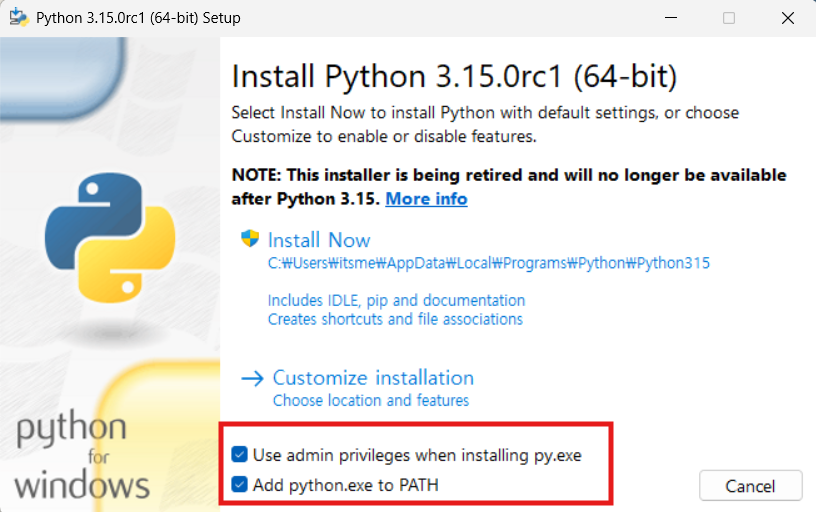
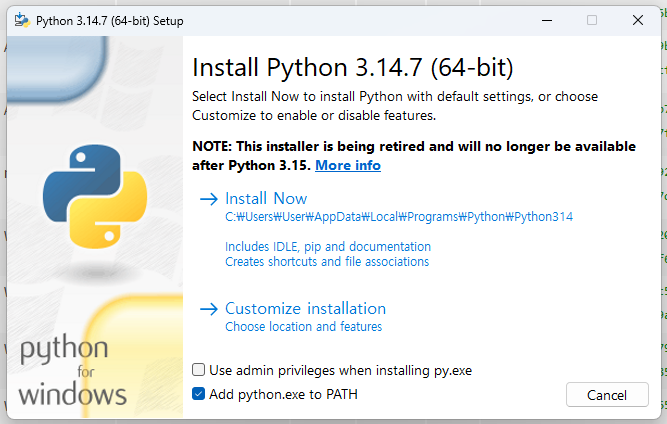
chore: python install이미지 변경

diff --git a/advanced2/stage2.html b/advanced2/stage2.html
@@ -113,8 +113,7 @@
 <p>실습 7 마무리에서 본 스킬 공유를 떠올려 보세요. 받은 zip을 풀어 <code>.claude/skills/</code> 폴더에 넣는 것이 전부였습니다. 남의 스킬을 가져올 때도 똑같습니다. 방법은 두 가지인데 결과는 같습니다.</p>
 <p><strong>방법 1 · 명령어 한 줄 (인터넷이 되는 경우)</strong></p>
 <p>VS Code 위 메뉴 <code>터미널 &gt; 새 터미널</code>로 연 창(Claude Code 대화창이 아닙니다)에 아래를 입력합니다.</p>
-<div class="highlight"><pre><span></span><code>npx<span class="w"> </span>skills<span class="w"> </span>add<span class="w"> </span>https://github.com/Leonxlnx/taste-skill<span class="w"> </span>--skill<span class="w"> </span><span class="s2">&quot;design-taste-frontend&quot;</span>
-</code></pre></div>
+<pre class="highlight"><code class="language-bash">npx skills add https://github.com/Leonxlnx/taste-skill --skill "design-taste-frontend"</code></pre>
 <p>실행 중에 어떤 도구에 설치할지 물으면 <strong>Claude Code</strong>를, 범위를 물으면 <strong>현재 프로젝트</strong>를 고르세요. 끝나면 설치된 경로가 출력됩니다. </p>
 <div class="admonition example">
 <p class="admonition-title">이렇게 나오면 됩니다</p>
@@ -125,12 +124,11 @@
 </div>
 <p><strong>방법 2 · 파일 복사 (실습 7에서 zip을 받았을 때와 같은 방식)</strong></p>
 <p>GitHub 저장소의 <code>skills/taste-skill/SKILL.md</code> 파일을 열어 <strong>Raw</strong> 버튼을 누르면 브라우저에 글 내용이 열립니다. 전체 선택(Ctrl+A)·복사해서, 지금 VS Code로 열어 둔 <code>전체자료</code> 폴더에 아래 구조로 새 파일을 만들어 붙여 넣고 저장합니다. 실습 7에서 배운 대로, <strong>폴더 이름이 곧 스킬 이름</strong>이 됩니다. (저장소 쪽 폴더명이 taste-skill이어도 괜찮습니다 — 폴더 구조만 아래처럼 만들면 됩니다.)</p>
-<div class="highlight"><pre><span></span><code>전체자료/           ← 지금 VS Code로 열어 둔 폴더
+<pre class="highlight"><code>전체자료/           ← 지금 VS Code로 열어 둔 폴더
 └─ .claude/
     └─ skills/
         └─ design-taste-frontend/
-            └─ SKILL.md
-</code></pre></div>
+            └─ SKILL.md</code></pre>
 <p>실습 7에서 만든 데이터통합 스킬이 있는 바로 그 <code>.claude/skills/</code> 폴더입니다.</p>
 <div class="admonition success">
 <p class="admonition-title">설치가 됐는지 확인</p>
@@ -139,8 +137,7 @@
 <div class="admonition info">
 <p class="admonition-title">실습 7과 부르는 방식이 다릅니다</p>
 <p>실습 7에서는 "데이터통합 스킬로 합쳐줘"처럼 문장 안에서 <strong>이름을 불러</strong> 썼습니다. 이번에는 프롬프트 맨 앞에 <strong>슬래시 커맨드</strong> 한 줄을 붙여 스킬을 직접 켭니다.</p>
-<div class="highlight"><pre><span></span><code>/design-taste-frontend
-</code></pre></div>
+<pre class="highlight"><code>/design-taste-frontend</code></pre>
 <p><figure style="margin:0">
   <img src="../images/advanced2/stage2-slash-menu.png" alt="Claude Code 입력창에 /를 입력하자 설치된 스킬 목록 패널이 떠 있고, 그 안에 design-taste-frontend가 보이는 화면" style="width:100%;height:auto;display:block">
   <figcaption style="text-align:center;font-size:0.85em;color:#888;margin-top:6px">입력창에 /를 치면 뜨는 스킬 목록 — 여기에 design-taste-frontend가 보이면 설치 성공입니다</figcaption>
@@ -158,7 +155,7 @@
 <h2 id="같은-프롬프트로-다시-시키기">같은 프롬프트로 다시 시키기<a class="headerlink" href="#같은-프롬프트로-다시-시키기" title="Permanent link">&para;</a></h2>
 <p><strong>반드시 새 대화를 시작한 뒤</strong> 보내세요. 스킬 목록은 대화를 시작할 때 읽히기 때문에, 1단계 대화에 이어서 보내면 새로 설치한 스킬이 반영되지 않을 수 있습니다.</p>
 <p>1단계 프롬프트를 그대로 복사해 보내되, <strong>맨 앞에 <code>/design-taste-frontend</code> 한 줄을 붙이고</strong>, 저장 위치만 <code>lab8_advanced/2.비교용/after/</code>로 바꿉니다. 본문에서 바뀌는 건 그 두 가지뿐입니다.</p>
-<div class="highlight"><pre><span></span><code>/design-taste-frontend lab8_advanced 폴더의 2.제품사양서.xlsx를 참고해서, 우리 회사(한울로보틱스)의
+<pre class="highlight"><code>/design-taste-frontend lab8_advanced 폴더의 2.제품사양서.xlsx를 참고해서, 우리 회사(한울로보틱스)의
 산업용 협동로봇 제품 소개 페이지를 만들어줘.
 고객사 담당자에게 링크로 보낼 페이지야. 요즘 스타일로 세련되게, 테크 기업 느낌으로.
 
@@ -169,8 +166,7 @@
 만드는 방법:
 - lab8_advanced/2.비교용/after/ 폴더에 HTML 파일 하나로. CSS와 JS를 그 파일 안에 넣어서,
   설치나 빌드 없이 더블클릭하면 바로 열리게.
-- 데스크톱 1440px 기준으로 만들고, 모바일에서도 안 깨지게.
-</code></pre></div>
+- 데스크톱 1440px 기준으로 만들고, 모바일에서도 안 깨지게.</code></pre>
 <div class="admonition info">
 <p class="admonition-title">결과보다 먼저 눈여겨볼 것</p>
 <p>스킬이 제대로 걸렸다면, 페이지를 만들기 전에 AI가 <strong>무엇을 만들지 먼저 선언합니다.</strong> 이 페이지를 어떤 성격의 페이지로 읽었는지 말하고, 다이얼 세 개의 값을 정하고 시작합니다.</p>
@@ -208,8 +204,7 @@
 <p>진짜 주소(링크)가 필요해지면 그때 이 파일을 회사 서버나 웹 호스팅 서비스에 올리면 됩니다. 파일은 이미 완성돼 있으니, 올리는 방법 역시 AI에게 시키면 되는 다음 업무일 뿐입니다.</p>
 <h2 id="더-해보기--대화로-조율하기">더 해보기 · 대화로 조율하기<a class="headerlink" href="#더-해보기--대화로-조율하기" title="Permanent link">&para;</a></h2>
 <p>시간이 남으면 After 대화에 이어서 이렇게 보내 보세요. 아까 구경한 다이얼 두 개를 직접 움직여 보는 것입니다.</p>
-<div class="highlight"><pre><span></span><code>DESIGN_VARIANCE를 9로, MOTION_INTENSITY를 8로 올려서 다시 만들어줘.
-</code></pre></div>
+<pre class="highlight"><code>DESIGN_VARIANCE를 9로, MOTION_INTENSITY를 8로 올려서 다시 만들어줘.</code></pre>
 <p>파일을 한 줄도 안 고치고 대화만으로 같은 스킬의 톤이 확 바뀝니다. 남의 스킬도 <strong>가져온 다음 내 취향으로 조율</strong>할 수 있다는 뜻입니다.</p>
 <h2 id="체크포인트">체크포인트<a class="headerlink" href="#체크포인트" title="Permanent link">&para;</a></h2>
 <ul class="task-list">

diff --git a/lab7/step1.html b/lab7/step1.html
@@ -129,21 +129,19 @@
 </ul>
 <details class="example">
 <summary>이렇게 시킬 수 있습니다</summary>
-<div class="highlight"><pre><span></span><code>이 @lab7/1.주문통합/주문통합_작업지침.md 는 지금 특정 파일명과 특정 열 이름에 맞춰져 있어. 이걸 어떤 파일이 와도 쓸 수 있도록 범용 절차로 다시 써줘.
-- 파일명을 고정하지 말고 &#39;폴더 안의 표 파일을 전부 찾는다&#39;로, 열 이름도 고정하지 말고 &#39;각 열이 주문번호인지·고객명인지·금액인지 내용을 보고 표준 칸에 맞춘다&#39;로 바꿔줘.
+<pre class="highlight"><code>이 @lab7/1.주문통합/주문통합_작업지침.md 는 지금 특정 파일명과 특정 열 이름에 맞춰져 있어. 이걸 어떤 파일이 와도 쓸 수 있도록 범용 절차로 다시 써줘.
+- 파일명을 고정하지 말고 '폴더 안의 표 파일을 전부 찾는다'로, 열 이름도 고정하지 말고 '각 열이 주문번호인지·고객명인지·금액인지 내용을 보고 표준 칸에 맞춘다'로 바꿔줘.
 - 표준 7칸(주문번호·고객명·상품명·수량·금액_원·주문일·출처채널), 날짜 `YYYY-MM-DD`, 금액 콤마 제거, 빈칸은 비워두기, 행 수 검산 — 이 규칙은 그대로 유지해.
 - 중복 제거는 주문번호 같은 고유키가 있을 때만 하고, 없으면 모든 행을 남기도록 조건을 달아줘.
-- 열 이름이 애매해서 어느 칸에 넣을지 모르겠으면 지어내지 말고 나한테 물어봐.
-</code></pre></div>
+- 열 이름이 애매해서 어느 칸에 넣을지 모르겠으면 지어내지 말고 나한테 물어봐.</code></pre>
 </details>
 <p>고쳐진 지침을 열어 보면 아까보다 단계가 나뉘고 훨씬 세세해졌을 겁니다. 마지막에 "모르면 물어보고 실행"이라는 규칙이 붙은 것도 확인해 보세요.</p>
 <h2 id="②-고친-지침으로-실제-통합해-보기">② 고친 지침으로 실제 통합해 보기<a class="headerlink" href="#②-고친-지침으로-실제-통합해-보기" title="Permanent link">&para;</a></h2>
 <p>지침이 세세해졌으니 이제 시키는 말은 짧아도 됩니다. 규칙을 다시 설명하지 않고 지침만 가리킵니다.</p>
 <details class="example">
 <summary>이렇게 시킬 수 있습니다</summary>
-<div class="highlight"><pre><span></span><code>방금 고친 lab7/1.주문통합/주문통합_작업지침.md 를 따라서 1.주문통합 폴더의 주문 파일들을 하나로 합쳐줘.
-결과는 같은 폴더에 주문통합_결과.xlsx 로 저장하고, 행 수 검산표를 같이 보여줘.
-</code></pre></div>
+<pre class="highlight"><code>방금 고친 lab7/1.주문통합/주문통합_작업지침.md 를 따라서 1.주문통합 폴더의 주문 파일들을 하나로 합쳐줘.
+결과는 같은 폴더에 주문통합_결과.xlsx 로 저장하고, 행 수 검산표를 같이 보여줘.</code></pre>
 </details>
 <p><code>주문통합_결과.xlsx</code>가 새로 만들어지고, 행 수 검산(3파일 합 − 중복 제거 = 통합 행 수)이 맞으면 범용화 성공입니다. 완성 예시는 예시답안 폴더의 <code>lab7/주문통합_결과.xlsx</code>와 비교해 볼 수 있습니다.</p>
 <h2 id="③-이-절차를-스킬로-굳히기">③ 이 절차를 스킬로 굳히기<a class="headerlink" href="#③-이-절차를-스킬로-굳히기" title="Permanent link">&para;</a></h2>
@@ -160,9 +158,8 @@
 </div>
 <details class="example">
 <summary>이렇게 시킬 수 있습니다</summary>
-<div class="highlight"><pre><span></span><code>/skill-creator:skill-creator  방금 검증한 범용 통합 절차를 데이터통합이라는 이름의 스킬로 만들어줘.
-현재 폴더의 .claude 폴더 하위에 저장해줘.
-</code></pre></div>
+<pre class="highlight"><code>/skill-creator:skill-creator  방금 검증한 범용 통합 절차를 데이터통합이라는 이름의 스킬로 만들어줘.
+현재 폴더의 .claude 폴더 하위에 저장해줘.</code></pre>
 </details>
 <p>잠시 기다리면 <code>.claude</code>라는 폴더가 생기고, 그 안 <code>skills/데이터통합/SKILL.md</code>에 지금까지 이야기한 규칙이 전부 담겨 있을 겁니다. 이제 채팅창에서 이름만 부르면 자동으로 불러와지는 도구가 된 것입니다. 절차가 머릿속이 아니라 파일로 남는 순간입니다.</p>
 <p><code>3.스킬예시/SKILL.md</code>가 이렇게 만들어진 스킬의 완성 예시입니다. 내 스킬과 비교해 보세요.</p>

diff --git a/start/setup/agent.html b/start/setup/agent.html
@@ -125,12 +125,10 @@
 <h2 id="1-claude-code-cli-설치">1. Claude Code CLI 설치<a class="headerlink" href="#1-claude-code-cli-설치" title="Permanent link">&para;</a></h2>
 <p><strong>1.</strong> 검색 창에 <code>PowerShell</code>을 입력해 실행합니다.</p>
 <p><strong>2.</strong> 아래 명령을 붙여넣고 <kbd>Enter</kbd>. (<a href="nodejs.html">③ Node.js 설치</a>가 끝나 있어야 합니다)</p>
-<div class="highlight"><pre><span></span><code><span class="n">npm</span> <span class="n">install</span> <span class="n">-g</span> <span class="nv">@anthropic</span><span class="n">-ai</span><span class="p">/</span><span class="n">claude-code</span>
-</code></pre></div>
+<pre class="highlight"><code class="language-powershell">npm install -g @anthropic-ai/claude-code</code></pre>
 <p>진행 표시가 지나가고 1~2분 안에 끝납니다.</p>
 <p><strong>3.</strong> 설치가 끝나면 PowerShell 창을 <strong>닫았다가 다시 열고</strong>, 아래 명령을 입력합니다.</p>
-<div class="highlight"><pre><span></span><code><span class="n">claude</span>
-</code></pre></div>
+<pre class="highlight"><code class="language-powershell">claude</code></pre>
 <p><img alt=".claude 초기 세팅 화면" src="../../images/setup/claude_initial_setting.png" /></p>
 <p>위와 같은 화면이 나오면 설치 완료입니다. 설치가 확인되었다면 우선 아무것도 설정하지 말고, 다음 단계로 넘어갑니다. </p>
 <h2 id="2-설정-파일settingsjson-넣기">2. 설정 파일(settings.json) 넣기<a class="headerlink" href="#2-설정-파일settingsjson-넣기" title="Permanent link">&para;</a></h2>
@@ -142,8 +140,7 @@
 </div>
 <p><strong>1.</strong> 위 링크에서 받은 압축 파일을 열어(비밀번호 입력) <code>settings.json</code>을 꺼내 <strong>다운로드 폴더</strong>에 둡니다.</p>
 <p><strong>2.</strong> <strong>파일 탐색기</strong>를 열고(작업 표시줄의 노란 폴더 아이콘), 위쪽 <strong>주소창</strong>을 클릭한 뒤 아래를 그대로 입력하고 <kbd>Enter</kbd>. <code>.claude</code> 폴더가 열립니다.</p>
-<div class="highlight"><pre><span></span><code>%USERPROFILE%\.claude
-</code></pre></div>
+<pre class="highlight"><code>%USERPROFILE%\.claude</code></pre>
 <p><img alt="탐색기 주소창에 %USERPROFILE%.claude 입력" src="../../images/setup/settings_addressbar.png" /></p>
 <p><strong>3.</strong> 다운로드 폴더에 있는 <code>settings.json</code>을 이 폴더로 <strong>마우스로 끌어다 놓습니다.</strong> (창 두 개를 나란히 띄우면 편합니다) 폴더에 이미 <code>settings.json</code>이 있다는 안내가 뜨면 <strong>"덮어쓰기(파일 바꾸기)"</strong>를 선택하면 됩니다.</p>
 <p><img alt=".claude 폴더 안에 settings.json이 들어 있는 화면" src="../../images/setup/settings_in_claude_folder.png" /></p>
@@ -164,8 +161,7 @@
 <h2 id="4-vs-code-확장-설치">4. VS Code 확장 설치<a class="headerlink" href="#4-vs-code-확장-설치" title="Permanent link">&para;</a></h2>
 <p>터미널 연결이 확인됐으니 이제 친숙한 채팅 화면으로 쓸 수 있게 VS Code 확장을 설치합니다.</p>
 <p><strong>1.</strong> 아래 링크에서 Claude Code 확장 페이지를 엽니다.</p>
-<div class="highlight"><pre><span></span><code>https://marketplace.visualstudio.com/items?itemName=Anthropic.claude-code
-</code></pre></div>
+<pre class="highlight"><code>https://marketplace.visualstudio.com/items?itemName=Anthropic.claude-code</code></pre>
 <p><strong>2.</strong> 열린 페이지에서 <strong><code>VS Code용 설치</code></strong> 버튼을 누릅니다.</p>
 <p><img alt="마켓플레이스에서 VS Code용 설치 버튼 클릭" src="../../images/setup/claude_install_vscode.png" /></p>
 <p><strong>3.</strong> VS Code가 열리며 확장 페이지가 뜹니다. <strong><code>Install</code></strong> 버튼을 눌러 설치합니다.</p>

diff --git a/start/setup/nodejs.html b/start/setup/nodejs.html
@@ -123,8 +123,7 @@
 <p>Windows에서 가장 간단한 방법은 공식 설치 프로그램을 쓰는 것입니다.</p>
 <h3 id="1-설치-프로그램-다운로드">1. 설치 프로그램 다운로드<a class="headerlink" href="#1-설치-프로그램-다운로드" title="Permanent link">&para;</a></h3>
 <p>Node.js 공식 사이트에 접속합니다.</p>
-<div class="highlight"><pre><span></span><code>https://nodejs.org
-</code></pre></div>
+<pre class="highlight"><code>https://nodejs.org</code></pre>
 <p>페이지 하단의 <strong>Windows 설치 프로그램(.msi)</strong> 버튼을 눌러 받습니다.</p>
 <p><img alt="nodejs.org 다운로드 화면 — Windows 설치 프로그램(.msi) 버튼" src="../../images/setup/nodejs_download.png" /></p>
 <h3 id="2-설치-진행">2. 설치 진행<a class="headerlink" href="#2-설치-진행" title="Permanent link">&para;</a></h3>
@@ -148,15 +147,13 @@
 <p><a href="https://nodejs.org/ko/download/">Node.js 공식 사이트</a>에서 <strong>macOS Installer(.pkg)</strong>를 받아 실행하고, 안내대로 설치합니다. (<code>Add to PATH</code>에 해당하는 설정은 자동으로 처리됩니다.)</p>
 <h2 id="설치-확인">설치 확인<a class="headerlink" href="#설치-확인" title="Permanent link">&para;</a></h2>
 <p>설치가 끝나면 <strong>새 명령 프롬프트(또는 터미널) 창</strong>을 엽니다. 기존에 열려 있던 창은 PATH가 업데이트되지 않았을 수 있습니다.</p>
-<div class="highlight"><pre><span></span><code>node<span class="w"> </span>--version
-</code></pre></div>
+<pre class="highlight"><code class="language-bash">node --version</code></pre>
 <div class="admonition success">
 <p class="admonition-title">이렇게 나오면 정상입니다</p>
 <p><code>v20.x.x</code> 형태의 버전이 출력됩니다.</p>
 </div>
 <p>npm도 함께 설치됐는지 확인합니다.</p>
-<div class="highlight"><pre><span></span><code>npm<span class="w"> </span>--version
-</code></pre></div>
+<pre class="highlight"><code class="language-bash">npm --version</code></pre>
 <p>버전 번호가 출력되면 npm도 정상 설치된 것입니다.</p>
 <div class="admonition warning">
 <p class="admonition-title"><code>Installation complete!</code>가 떴는데 버전이 안 나온다면</p>
@@ -167,8 +164,7 @@
 <p>명령 프롬프트 창에서 아래와 같은 오류가 뜰 수 있습니다.</p>
 <p><img alt="PowerShell에서 npm 실행 시 뜨는 PSSecurityException 오류" src="../../images/setup/pssecurity_exception.png" /></p>
 <p>검색 창에 <code>PowerShell</code>을 입력해 <strong>관리자 권한으로 실행</strong>한 뒤, 아래 명령을 입력하고 확인 창이 뜨면 <code>Y</code>를 누르세요.</p>
-<div class="highlight"><pre><span></span><code><span class="nb">Set-ExecutionPolicy</span> <span class="n">RemoteSigned</span> <span class="n">-Scope</span> <span class="n">CurrentUser</span>
-</code></pre></div>
+<pre class="highlight"><code class="language-powershell">Set-ExecutionPolicy RemoteSigned -Scope CurrentUser</code></pre>
 <p>이후 <strong>새 터미널 창</strong>을 열어 <code>npm --version</code>을 다시 실행해보세요.</p>
 </div>
 

diff --git a/help/next.html b/help/next.html
@@ -133,11 +133,10 @@
 </div>
 <h3 id="4-매번-설명하기-귀찮아지면-규칙-파일을-만들기">4. 매번 설명하기 귀찮아지면 규칙 파일을 만들기<a class="headerlink" href="#4-매번-설명하기-귀찮아지면-규칙-파일을-만들기" title="Permanent link">&para;</a></h3>
 <p>같은 폴더에서 계속 일하다 보면 매번 같은 설명을 반복하게 됩니다. 그럴 때 <code>CLAUDE.md</code>라는 파일을 폴더에 만들어(VS Code에서 새 파일을 만들고 이름을 <code>CLAUDE.md</code>로 저장하면 됩니다) 규칙을 적어두면, 매번 안 알려줘도 됩니다.</p>
-<div class="highlight"><pre><span></span><code>이 폴더에서 일할 때 규칙:
+<pre class="highlight"><code>이 폴더에서 일할 때 규칙:
 - 원본 파일은 고치지 말고 결과는 새 파일로 만든다
 - 날짜는 2026-09-30 형태로 통일한다
-- 모르는 값은 지어내지 말고 확인필요라고 적는다
-</code></pre></div>
+- 모르는 값은 지어내지 말고 확인필요라고 적는다</code></pre>
 <h3 id="5-자동-승인을-되돌려두기">5. 자동 승인을 되돌려두기<a class="headerlink" href="#5-자동-승인을-되돌려두기" title="Permanent link">&para;</a></h3>
 <p>오늘 켜둔 자동 승인은 실습용입니다. 평소 작업 폴더에서는 되돌려 쓰시길 권합니다. 방법은 <a href="../start/setup/agent.html">④ Claude Code 설치</a>의 접이식 안내에 있습니다.</p>
 <hr />
@@ -249,12 +248,11 @@
 <p><strong>표의 마지막 열, 확인하고 수정하기를 빼면 나머지 여섯은 믿을 수가 없습니다.</strong></p>
 <hr />
 <h2 id="오늘-한-행동-다섯-줄">오늘 한 행동 다섯 줄<a class="headerlink" href="#오늘-한-행동-다섯-줄" title="Permanent link">&para;</a></h2>
-<div class="highlight"><pre><span></span><code>1. 시킬 때 — 뭘 만들지, 어떤 이름의 파일로, 다 됐다고 볼 기준이 뭔지 같이 말했다
+<pre class="highlight"><code>1. 시킬 때 — 뭘 만들지, 어떤 이름의 파일로, 다 됐다고 볼 기준이 뭔지 같이 말했다
 2. 크게 갈 때 — 하나로 먼저 해보고 형식을 확정한 다음 전체로 늘렸다
 3. 결과를 받고 — 만든 것 안이 아니라 원본과 맞대봤다
 4. 애매할 때 — 지어내지 않고 표시로 남겼고, 내가 모르는 건 물어봤다
-5. 고칠 때 — 고칠 곳을 짚어줬다. &quot;전부 다시&quot;라고 하지 않았다
-</code></pre></div>
+5. 고칠 때 — 고칠 곳을 짚어줬다. "전부 다시"라고 하지 않았다</code></pre>
 
 <nav class="pager">
 <a class="prev" href="../help/how-to-ask.html"><span class="lbl">← 이전</span><span class="ttl">AI에게 잘 시키는 법</span></a>

diff --git a/advanced2/index.html b/advanced2/index.html
@@ -114,8 +114,7 @@
 <h2 id="시작-전에--git-bash-설치">시작 전에 · Git Bash 설치<a class="headerlink" href="#시작-전에--git-bash-설치" title="Permanent link">&para;</a></h2>
 <p>이번 실습 2단계에서 스킬을 설치할 때 쓰는 명령이 내부적으로 Git을 사용합니다. 아직 설치돼 있지 않다면 먼저 설치해 둡니다. (이미 설치돼 있다면 이 절은 건너뛰어도 됩니다.)</p>
 <p><strong>1단계.</strong> Git 공식 사이트에 접속합니다.</p>
-<div class="highlight"><pre><span></span><code>https://git-scm.com/
-</code></pre></div>
+<pre class="highlight"><code>https://git-scm.com/</code></pre>
 <p>다운로드 페이지에서 자신의 운영체제에 맞는 설치 프로그램을 받습니다.</p>
 <figure style="margin:0">
   <img src="../images/advanced2/gitbash-download-page.png" alt="git-scm.com 다운로드 페이지" style="width:100%;height:auto;display:block">
@@ -124,8 +123,7 @@
 
 <p><strong>2단계.</strong> 받은 설치 파일을 실행하고, 모든 화면에서 <strong>기본 옵션을 그대로 유지</strong>한 채 <code>Next</code>를 눌러 설치를 완료합니다.</p>
 <p><strong>설치 확인.</strong> 설치가 끝나면 <strong>새 터미널(또는 명령 프롬프트) 창</strong>을 열고 아래 명령을 입력합니다.</p>
-<div class="highlight"><pre><span></span><code>git<span class="w"> </span>--version
-</code></pre></div>
+<pre class="highlight"><code class="language-bash">git --version</code></pre>
 <div class="admonition success">
 <p class="admonition-title">이렇게 나오면 정상입니다</p>
 <p><code>git version 2.x.x</code> 형태의 버전이 출력됩니다.</p>
@@ -191,12 +189,11 @@
 </tr>
 </tbody>
 </table>
-<div class="highlight"><pre><span></span><code>lab8_advanced/
+<pre class="highlight"><code>lab8_advanced/
 ├─ 2.제품사양서.xlsx
 └─ 2.비교용/
     ├─ before/
-    └─ after/
-</code></pre></div>
+    └─ after/</code></pre>
 <p>zip을 못 받는 상황이면 직접 만들어도 됩니다. 실습 6 폴더의 <code>2.제품사양서.xlsx</code>를 <code>전체자료</code> 안에 새로 만든 <code>lab8_advanced</code> 폴더에 복사하고, <code>2.비교용/before</code>·<code>2.비교용/after</code> 폴더를 만들면 같은 상태가 됩니다.</p>
 <p>핵심은 <strong>페이지의 숫자를 지어내지 않고 사양서에서 가져온다</strong>는 실습 6의 원칙을 여기서도 지키는 것입니다.</p>
 <h2 id="실습에서-할-일">실습에서 할 일<a class="headerlink" href="#실습에서-할-일" title="Permanent link">&para;</a></h2>

diff --git a/lab6/step2.html b/lab6/step2.html
@@ -134,23 +134,20 @@
 <p>여러분 문장을 먼저 보낸 뒤에 열어보세요. 세 번에 나눠 시킵니다.</p>
 <details class="example">
 <summary>① 사실 검증</summary>
-<div class="highlight"><pre><span></span><code>lab6 폴더의 영업제안서_초안 숫자를 제품사양서와 한 줄씩 대조해줘.
+<pre class="highlight"><code>lab6 폴더의 영업제안서_초안 숫자를 제품사양서와 한 줄씩 대조해줘.
 제안 모델의 가반하중, 인건비 절감액, 가격 등이 사양서 값과 일치하는지 확인하고,
-다른 값은 &#39;제안서 값 vs 사양서 값&#39;으로 나란히 짚어줘. 추측하지 말고 자료에 있는 값만 써.
-</code></pre></div>
+다른 값은 '제안서 값 vs 사양서 값'으로 나란히 짚어줘. 추측하지 말고 자료에 있는 값만 써.</code></pre>
 </details>
 <details class="example">
 <summary>② 고객 입장</summary>
-<div class="highlight"><pre><span></span><code>고객사 요구사항의 6개 항목을 하나씩 제안서와 대조해서, 각각 충족·미흡·누락 중 무엇인지 판정해줘.
-특히 제안서에 아예 누락된 요구사항이 없는지 꼼꼼히 확인해줘.
-</code></pre></div>
+<pre class="highlight"><code>고객사 요구사항의 6개 항목을 하나씩 제안서와 대조해서, 각각 충족·미흡·누락 중 무엇인지 판정해줘.
+특히 제안서에 아예 누락된 요구사항이 없는지 꼼꼼히 확인해줘.</code></pre>
 </details>
 <details class="example">
 <summary>③ 검토자 입장</summary>
-<div class="highlight"><pre><span></span><code>이 제안서를 검토자 관점에서 봐줘. 결론·가격이 앞머리에 있는지(두괄식),
-숫자가 포함된 표현이나 법적으로 문제가 될 수 있는 표현들(&#39;점유율 1위&#39;·&#39;고장률 0%&#39; 등)이
-구체적인 자료로 뒷받침되는지 함께 짚어줘.
-</code></pre></div>
+<pre class="highlight"><code>이 제안서를 검토자 관점에서 봐줘. 결론·가격이 앞머리에 있는지(두괄식),
+숫자가 포함된 표현이나 법적으로 문제가 될 수 있는 표현들('점유율 1위'·'고장률 0%' 등)이
+구체적인 자료로 뒷받침되는지 함께 짚어줘.</code></pre>
 </details>
 <h2 id="실행-예시">실행 예시<a class="headerlink" href="#실행-예시" title="Permanent link">&para;</a></h2>
 <div class="admonition example">

diff --git a/start/setup/python.html b/start/setup/python.html
@@ -121,8 +121,7 @@
 </ul>
 <h2 id="다운로드와-설치">다운로드와 설치<a class="headerlink" href="#다운로드와-설치" title="Permanent link">&para;</a></h2>
 <p>Python 공식 사이트에서 최신 버전(3.10 이상)을 받습니다.</p>
-<div class="highlight"><pre><span></span><code>https://www.python.org/downloads/
-</code></pre></div>
+<pre class="highlight"><code>https://www.python.org/downloads/</code></pre>
 <p><strong>1단계.</strong> 페이지를 아래로 내려 <strong>Active Python releases</strong> 표에서 설치할 버전의 <code>Download</code>를 누릅니다.</p>
 <p><img alt="python.org 다운로드 페이지의 Active Python releases 표 — 설치할 버전의 Download 링크" src="../../images/setup/python_add_to_path.png" /></p>
 <p><strong>2단계.</strong> 열린 페이지 맨 아래 <strong>Files</strong> 표에서 받을 파일을 고릅니다.</p>
@@ -141,8 +140,7 @@
 <p>체크한 뒤 <code>Install Now</code>를 눌러 설치를 완료합니다.</p>
 <h2 id="설치-확인">설치 확인<a class="headerlink" href="#설치-확인" title="Permanent link">&para;</a></h2>
 <p>설치가 끝나면 <strong>새 명령 프롬프트 창</strong>을 열고(윈도우 키 → <code>cmd</code> 입력 → Enter, 맥은 Spotlight에서 '터미널' 검색) 아래를 입력합니다.</p>
-<div class="highlight"><pre><span></span><code>python<span class="w"> </span>--version
-</code></pre></div>
+<pre class="highlight"><code class="language-bash">python --version</code></pre>
 <div class="admonition success">
 <p class="admonition-title">이렇게 나오면 정상입니다</p>
 <p><code>Python 3.10</code> 이상 숫자가 출력됩니다. (macOS에서는 <code>python3 --version</code>으로 확인하세요.)</p>

diff --git a/help/errors.html b/help/errors.html
@@ -121,16 +121,14 @@
 <p>에러를 그대로 붙여넣기만 하면 상황을 몰라 여러 번 오갑니다. <strong>아래 한 줄을 같이 보내면 왕복이 절반으로 줄어듭니다.</strong></p>
 <div class="admonition quote">
 <p class="admonition-title">짐작 한 줄</p>
-<div class="highlight"><pre><span></span><code>지금 (어느 단계)에서 (어떤 파일)을 (어떻게) 했더니 났어. 내 짐작엔 (          ) 때문인 것 같아.
-</code></pre></div>
+<pre class="highlight"><code>지금 (어느 단계)에서 (어떤 파일)을 (어떻게) 했더니 났어. 내 짐작엔 (          ) 때문인 것 같아.</code></pre>
 </div>
 <p><strong>짐작이 틀려도 됩니다. 틀린 짐작도 단서입니다.</strong> 어디서 무엇을 했는지가 들어 있는 것만으로 충분합니다.</p>
 <p>여유가 없으면 아래 문장만 써도 됩니다. 막힌 상태로 멈춰 있는 것보다 낫습니다.</p>
-<div class="highlight"><pre><span></span><code>이런 에러가 났어:
+<pre class="highlight"><code>이런 에러가 났어:
 (에러 메시지를 그대로 복사해서 붙여넣기)
 
-원인이 뭔지 설명해주고 해결해줘.
-</code></pre></div>
+원인이 뭔지 설명해주고 해결해줘.</code></pre>
 <hr />
 <h2 id="증상별로-그대로-쓸-문장">증상별로 그대로 쓸 문장<a class="headerlink" href="#증상별로-그대로-쓸-문장" title="Permanent link">&para;</a></h2>
 <h3 id="파일이-안-보이거나-못-찾을-때">파일이 안 보이거나 못 찾을 때<a class="headerlink" href="#파일이-안-보이거나-못-찾을-때" title="Permanent link">&para;</a></h3>

diff --git a/lab1/step1.html b/lab1/step1.html
@@ -133,15 +133,14 @@
 <p>여러분 문장을 먼저 보낸 뒤에 열어보세요.</p>
 <details class="example">
 <summary>이렇게 시킬 수 있습니다</summary>
-<div class="highlight"><pre><span></span><code>lab1 폴더의 웹주문.xlsx, 전화주문.xlsx, 제휴주문.xlsx 세 파일을 읽어서
+<pre class="highlight"><code>lab1 폴더의 웹주문.xlsx, 전화주문.xlsx, 제휴주문.xlsx 세 파일을 읽어서
 주문종합.xlsx의 표준 7칸(주문번호·고객명·상품명·수량·금액_원·주문일·주문채널)에 맞춰 합쳐줘.
 파일마다 열 제목이 다른데, 작업방법참고.xlsx의 대조표대로 같은 뜻이면 같은 칸으로 옮겨.
 각 줄이 어느 파일에서 왔는지 주문채널에 웹/전화/제휴로 적어줘.
 같은 주문번호가 여러 파일에 겹치면 한 줄로 합치고, 들어온 채널을 채널칸에 모두 남겨줘.
 주문일은 YYYY-MM-DD로 통일해. 제휴 파일 날짜는 월/일 순서니까 주의해.
 혹시 금액이 원본에 비어 있는 건이 있으면 0을 넣지 말고 빈칸으로 둬.
-다 되면 원본 세 파일 건수 합과, 합친 뒤 줄 수와, 겹쳐서 합쳐진 건수를 숫자로 알려줘.
-</code></pre></div>
+다 되면 원본 세 파일 건수 합과, 합친 뒤 줄 수와, 겹쳐서 합쳐진 건수를 숫자로 알려줘.</code></pre>
 </details>
 <h2 id="실행-예시">실행 예시<a class="headerlink" href="#실행-예시" title="Permanent link">&para;</a></h2>
 <div class="admonition example">

diff --git a/lab1/step2.html b/lab1/step2.html
@@ -129,14 +129,13 @@
 <p>여러분 문장을 먼저 보낸 뒤에 열어보세요.</p>
 <details class="example">
 <summary>이렇게 물어볼 수 있습니다</summary>
-<div class="highlight"><pre><span></span><code>lab1 폴더의 주문종합.xlsx를 세 원본 파일과 대조해서 스스로 검산해줘.
+<pre class="highlight"><code>lab1 폴더의 주문종합.xlsx를 세 원본 파일과 대조해서 스스로 검산해줘.
 1) 합친 줄 수가 원본 세 파일 건수 합에서 겹쳐 합쳐진 건수를 뺀 값과 맞는지 숫자로 보여줘.
 2) 세 원본의 주문번호 중 종합에 빠진 게 하나라도 있으면 전부 알려줘.
 3) 같은 주문번호가 두 줄로 남은 게 있으면 알려주고, 채널칸에 들어온 채널이 다 적혔는지 확인해줘.
 4) 주문일이 YYYY-MM-DD가 아닌 줄을 전부 찾아줘.
-5) 원본에서 금액이 비어 있던 줄이 있다면 종합에서도 빈칸인지 확인해줘 (없으면 &#39;해당 없음&#39;이라고 답해줘).
-맞다고 단정하지 말고, 어긋난 줄은 번호로 짚어줘.
-</code></pre></div>
+5) 원본에서 금액이 비어 있던 줄이 있다면 종합에서도 빈칸인지 확인해줘 (없으면 '해당 없음'이라고 답해줘).
+맞다고 단정하지 말고, 어긋난 줄은 번호로 짚어줘.</code></pre>
 </details>
 <h2 id="실행-예시">실행 예시<a class="headerlink" href="#실행-예시" title="Permanent link">&para;</a></h2>
 <div class="admonition example">

diff --git a/lab5/step2.html b/lab5/step2.html
@@ -129,13 +129,12 @@
 <p>여러분 문장을 먼저 보낸 뒤에 열어보세요.</p>
 <details class="example">
 <summary>이렇게 시킬 수 있습니다</summary>
-<div class="highlight"><pre><span></span><code>lab5 폴더의 VOC_분류기준.pdf 기준 그대로 VOC원문.xlsx의 520건을 전부 분류해서 분류표.xlsx를 채워줘.
+<pre class="highlight"><code>lab5 폴더의 VOC_분류기준.pdf 기준 그대로 VOC원문.xlsx의 520건을 전부 분류해서 분류표.xlsx를 채워줘.
 item_id 순서대로, 각 줄에 문의유형·감성·위험대응 세 칸을 채워.
 판정 순서는 유형 → 감성 → 위험 스캔이고, 세 축은 독립으로 판단해.
 복합 문의는 기준의 우선순위 규칙을 따르고(하자 언급해도 환불 요구면 환불취소 등),
-확신이 없는 건은 억지로 분류하지 말고 기타·중립으로 둔 뒤 비고에 &#39;검토필요&#39;라고 적어줘.
-빈칸 없이 520줄을 다 채우고, 다 되면 유형별·감성별 건수와 위험대응 Y 건수를 알려줘.
-</code></pre></div>
+확신이 없는 건은 억지로 분류하지 말고 기타·중립으로 둔 뒤 비고에 '검토필요'라고 적어줘.
+빈칸 없이 520줄을 다 채우고, 다 되면 유형별·감성별 건수와 위험대응 Y 건수를 알려줘.</code></pre>
 </details>
 <h2 id="실행-예시">실행 예시<a class="headerlink" href="#실행-예시" title="Permanent link">&para;</a></h2>
 <div class="admonition example">
